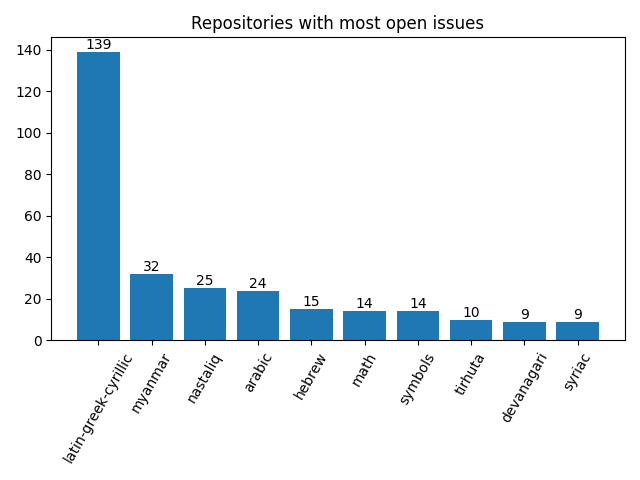
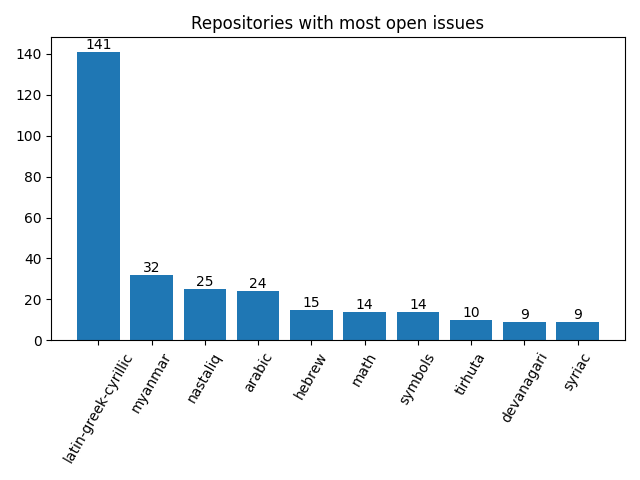
Apply automatic changes

diff --git a/docs/analytics.html b/docs/analytics.html
@@ -109,8 +109,8 @@ td .material-icons { display:inline-flex; vertical-align: top; font-size:1.1rem;
 						</tr>
 						<tr>
 							<td>Sep</td>
-							<td>0</td>
-							<td>0</td>
+							<td>3</td>
+							<td>1</td>
 						</tr>
 					</table>
 				</div>
@@ -130,7 +130,7 @@ td .material-icons { display:inline-flex; vertical-align: top; font-size:1.1rem;
 							<td>
 								<a href="http://github.com/notofonts/latin-greek-cyrillic/issues">latin-greek-cyrillic</a>
 							</td>
-							<td>139</td>
+							<td>141</td>
 						</tr>
 						<tr>
 							<td>
@@ -270,7 +270,7 @@ td .material-icons { display:inline-flex; vertical-align: top; font-size:1.1rem;
 						<tr>
 							<td>1</td>
 							<td>
-									<a href="http://github.com/notofonts/latin-greek-cyrillic/issues">latin-greek-cyrillic</a>: 139, 
+									<a href="http://github.com/notofonts/latin-greek-cyrillic/issues">latin-greek-cyrillic</a>: 141, 
 
 									<a href="http://github.com/notofonts/nastaliq/issues">nastaliq</a>: 25, 
 
